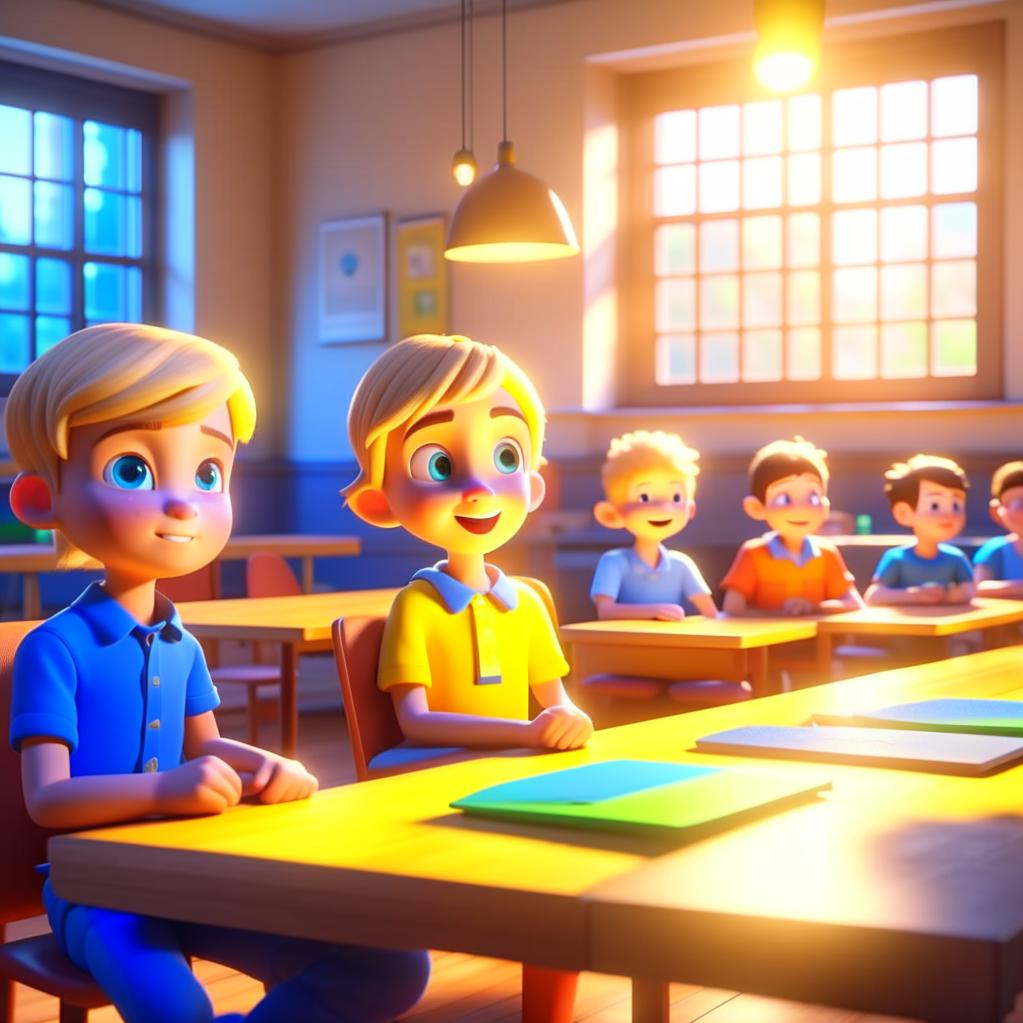
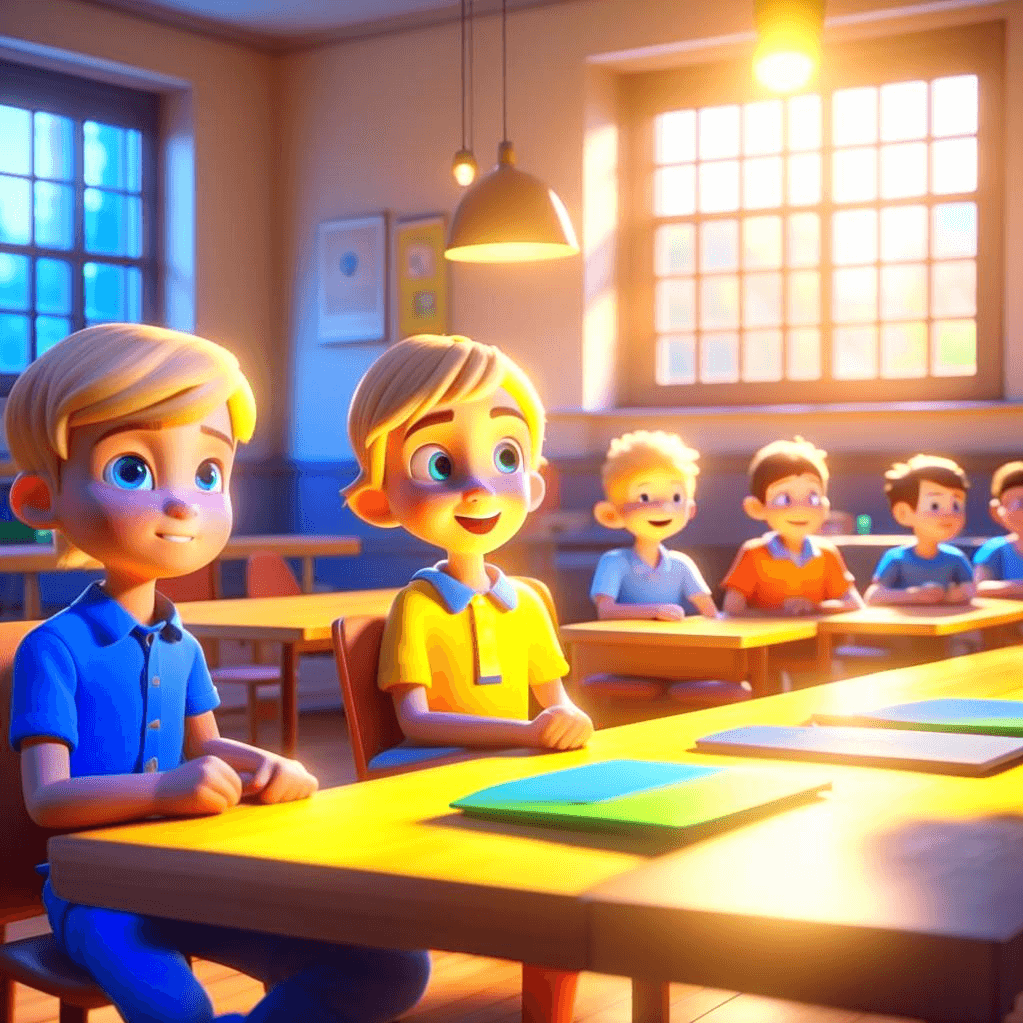
compressed imgs + added loader

diff --git a/components/Loader.vue b/components/Loader.vue
@@ -1,0 +1,50 @@
+<template>
+    <div class="loader-cont">
+        <p>"Patience is not simply the ability to wait, it's how we behave while we're waiting." <br> Joyce Meyer</p>
+        <div id="loader"></div>
+    </div>
+</template>
+
+<style scoped>
+@import url('https://fonts.googleapis.com/css2?family=Libre+Baskerville&display=swap');
+
+.loader-cont {
+    width: 100vw;
+    height: 100vh;
+    overflow: hidden;
+    display: flex;
+    flex-direction: column;
+    justify-content: center;
+    gap: 2rem;
+    align-items: center;
+    justify-content: center;
+    background: var(--bg-ltr);
+}
+
+p {
+    text-align: center;
+    font-family: 'Libre Baskerville', serif;
+    font-size: 2rem;
+    color: white;
+}
+
+#loader {
+    width: 50px;
+    height: 50px;
+    border-radius: 50%;
+    animation: load 1s ease-in-out infinite alternate;
+}
+
+@keyframes load {
+    0% {
+        transform: translateX(-100px);
+        offset: 10px 0px;
+        background: black;
+    }
+
+    100% {
+        transform: translateX(100px);
+        background: white;
+    }
+}
+</style>

diff --git a/app.vue b/app.vue
@@ -1,6 +1,13 @@
 <template>
   <div>
-    <NuxtPage />
+    <Transition>
+      <Loader v-if="!showPages" class="absolute" />
+    </Transition>
+
+    <NuxtPage v-if="showPages" />
+
+
+
   </div>
 </template>
 <script setup lang="ts">
@@ -9,8 +16,8 @@ import { ScrollTrigger } from 'gsap/ScrollTrigger';
 import { ScrollToPlugin } from 'gsap/ScrollToPlugin';
 gsap.registerPlugin(ScrollTrigger, ScrollToPlugin);
 
-
-
+const showPages = ref(false)
+onMounted(() => { showPages.value = true })
 
 </script>
 <style>
@@ -25,5 +32,17 @@ gsap.registerPlugin(ScrollTrigger, ScrollToPlugin);
   html {
     font-size: 14px;
   }
+}
+
+/* we will explain what these classes do next! */
+.v-enter-active,
+.v-leave-active {
+  transition: all 0.2s ease;
+}
+
+.v-enter-from,
+.v-leave-to {
+  opacity: 0;
+
 }
 </style>

diff --git a/pages/index.vue b/pages/index.vue
@@ -11,6 +11,7 @@
         <LogoIcons position="bottom" />
     </section>
 
+
     <section class="section-two">
         <p class="s-header accent !text-4xl py-8"> Some projects</p>
         <SectionTwoMd class="md:hidden" v-if="md" />
@@ -37,6 +38,7 @@ onMounted(() => {
 })
 
 
+
 </script>
 <style >
 @import url('https://fonts.googleapis.com/css2?family=Courier+Prime:wght@400;700&display=swap');
@@ -49,7 +51,7 @@ section {
     padding-block: 2rem;
 }
 
-/*ssection One */
+/*section One */
 .section-one {
     background: var(--bg-ltr);
 }
